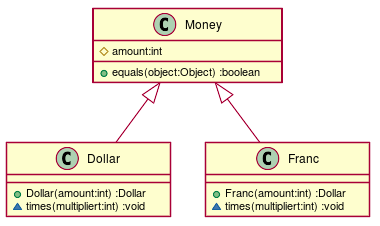
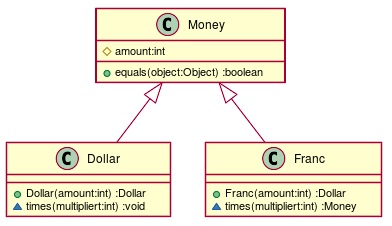
第８章 実装を隠す Step2

diff --git a/src/main/java/tdd/money/Franc.java b/src/main/java/tdd/money/Franc.java
@@ -4,7 +4,7 @@ class Franc extends Money {
     Franc(int amount) {
         this.amount = amount;
     }
-    Franc times(int multiplier) {
+    Money times(int multiplier) {
         return new Franc(amount * multiplier);
     }
 }

diff --git a/docs/TDD.md b/docs/TDD.md
@@ -58,7 +58,7 @@
 ### クラス図
   
 
-![](./assets/0285dfa24ee25b18e00bb369b57da6820.png?0.5649317165814689)  
+![](./assets/0285dfa24ee25b18e00bb369b57da6820.png?0.9867349581758436)  
 ### シーケンス図
   
   

diff --git a/docs/src/TDD.md b/docs/src/TDD.md
@@ -65,7 +65,7 @@ class Dollar {
 }
 class Franc {
   +Franc(amount:int) :Dollar
-  ~times(multipliert:int) :void
+  ~times(multipliert:int) :Money
 }
 class Money {
   #amount:int
